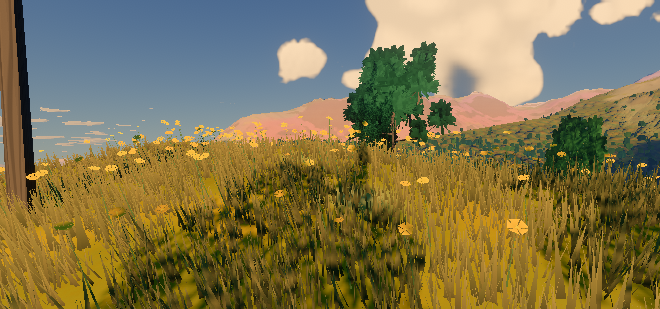
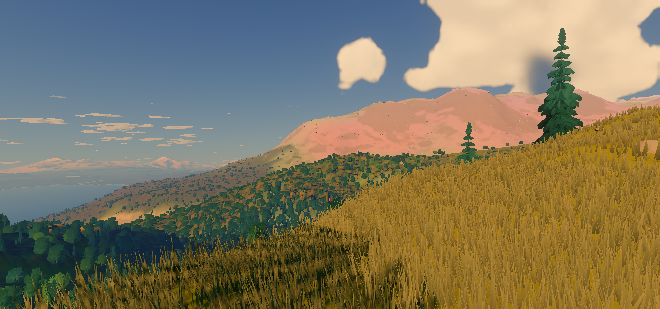
Clumps looked at squarely from afar are not drawn: pictures and the report's line; the opening view on the merged build
Claude-Session: https://claude.ai/code/session_01XG1DZ6vKJWJCvxUHNSpiWP

diff --git a/docs/briefs/far-grass-report.md b/docs/briefs/far-grass-report.md
@@ -168,6 +168,19 @@ picture; the arc is no longer something I can point to in it.
   100 m are under that size and gone; on the phone (1 440 px) they are drawn four to five
   times farther, and that was not looked at** (`--dsf 3.5` would show it).
 
+- **Clumps looked at squarely** (after DONE4): a clump seen squarely (the same measure) from
+  beyond about 60 m is not drawn: they go one by one, by chance, over a band of the measure
+  (0.22 to 0.5) and of distance (40 to 90 m); what remains squarely seen takes the ground's
+  own light. Pictures at a phone's pixel density (`fov=21.4`), the old opening place's
+  hillside: `haven_ledge_hill_tele_before.png` (thin slashes at every angle on the slope)
+  and `haven_ledge_hill_tele_after.png` (none on the sunlit slope; a few gold ones left in
+  the shaded corner at the upper right). `haven_ledge_steppe_level_after.png` (eye height:
+  the field is all there), `haven_ledge_steppe_a30_after.png`, and the eye-height opening
+  view on the build with the owning branch's slope rule merged in
+  (`haven_ledge_ledge_after.png`: a dense gold meadow on the steep foreground).
+  My slope rule of DONE4 had the direction wrong (it thinned the grass to where the paint
+  was); the owning session turned it round (`GRASS_GROUND.slope`).
+
 C to H went in as one commit, not one each. They build; the one picture taken on them is
 `haven_ledge_steppe_a30_after.png`.
 
